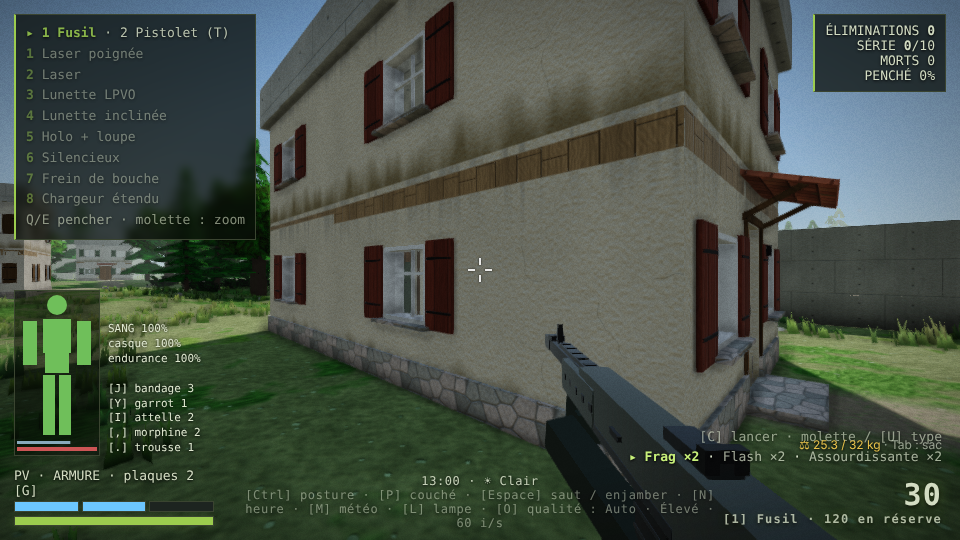
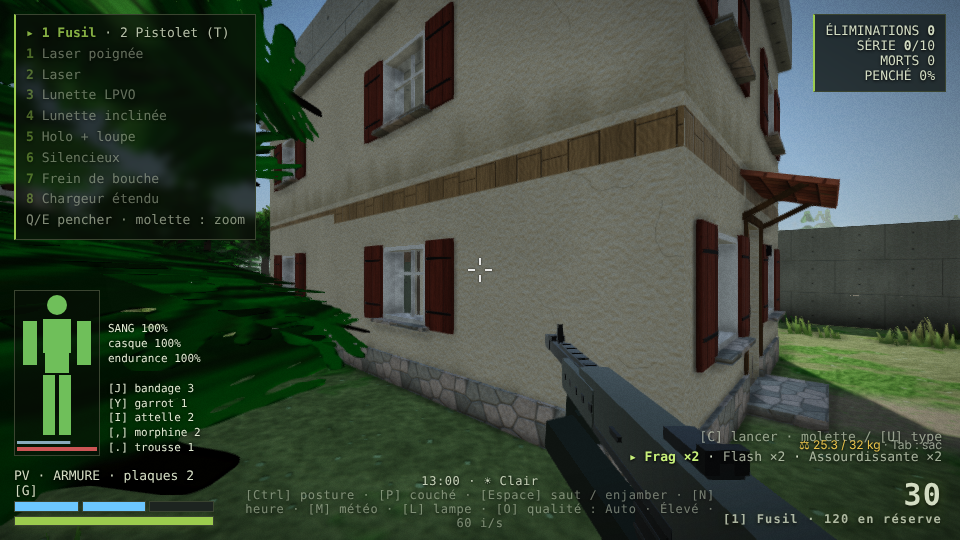
v12 : lumiere interieure manuelle (0), coulures du crepi attenuees
Claude-Session: https://claude.ai/code/session_015MoiAC5KEFPeR3G75qdcFk

diff --git a/MILSIM_FPS.html b/MILSIM_FPS.html
@@ -164,8 +164,8 @@ cracks(x,sz,3,'rgba(40,38,35,.45)')},3);
 // --- crépi (hauteur non répétée : saleté en bas, coulures sous le toit)
 const T_plas=ptex(512,(d,H,sz)=>{const a=fbm(sz,4,4,4,31),b=fbm(sz,96,96,2,13),e=fbm(sz,10,3,3,57),st=fbm(sz,40,2,3,71);
 for(let y=0;y<sz;y++)for(let X=0;X<sz;X++){const i=y*sz+X,vv=1-y/sz;let r=.93+(a[i]-.5)*.1+(b[i]-.5)*.05,g=r*.985,bl=r*.95;
-const dk=c01((.17+(e[i]-.5)*.2-vv)/.15);r*=1-.4*dk;g*=1-.45*dk;bl*=1-.55*dk;
-const tk=c01((vv-.7)/.2)*c01((st[i]-.45)*4);r*=1-.17*tk;g*=1-.16*tk;bl*=1-.13*tk;
+const dk=c01((.17+(e[i]-.5)*.2-vv)/.15);r*=1-.18*dk;g*=1-.2*dk;bl*=1-.24*dk;
+const tk=c01((vv-.7)/.2)*c01((st[i]-.45)*4);r*=1-.06*tk;g*=1-.06*tk;bl*=1-.05*tk;
 P4(d,i,r*255,g*255,bl*255);H[i]=b[i]*.7+a[i]*.3}},(x,sz)=>cracks(x,sz,5,'rgba(70,62,52,.4)'),2.2);
 // --- pierre (moellons)
 const T_stone=ptex(256,(d,H,sz)=>{const G=5,cs=sz/G,n=fbm(sz,48,48,2,91),pts=[];for(let j=0;j<G;j++)for(let i=0;i<G;i++)pts.push([(i+.15+hsh(i,j)*.7)*cs,(j+.15+hsh(i+9,j+5)*.7)*cs,hsh(i*3+1,j*7+2)]);
@@ -1195,11 +1195,11 @@ vA=(1.-aEnd*.7)*(.55);gl_Position=projectionMatrix*viewMatrix*vec4(p,1.);}`,
 fragmentShader:`uniform float uIn,uLum;varying float vA;void main(){gl_FragColor=vec4(vec3(.72,.8,.92)*uLum,vA*(1.-uIn)*.55);}`});
 const rain=new THREE.LineSegments(rg,rainM);rain.frustumCulled=false;rain.renderOrder=5;S.add(rain);
 // lampe torche + lumières intérieures
-const fl=new THREE.SpotLight(0xfff0d6,0,34,.4,.55,1.2);fl.position.set(.14,-.12,0);C.add(fl,fl.target);fl.target.position.set(0,0,-8);let flOn=false;
+const fl=new THREE.SpotLight(0xfff0d6,0,34,.4,.55,1.2);fl.position.set(.14,-.12,0);C.add(fl,fl.target);fl.target.position.set(0,0,-8);let flOn=false,ILON=false;
 const inL=new THREE.PointLight(0xffe2b0,0,8,1.6),inL2=new THREE.PointLight(0xffe2b0,0,8,1.6);S.add(inL,inL2);
 // HUD
 const wxEl=document.createElement('div');wxEl.style.cssText='position:fixed;bottom:10px;left:50%;transform:translateX(-50%);font:12px monospace;color:#dfe8d0;text-shadow:0 1px 3px #000;pointer-events:none;opacity:.85;letter-spacing:.05em;text-align:center;z-index:5';document.body.appendChild(wxEl);
-addEventListener('keydown',e=>{if(e.repeat)return;if(e.code==='KeyN'){TOD.t=(TOD.t+(e.shiftKey?-1:2)+24)%24}if(e.code==='KeyM'){TOD.tgt=(TOD.tgt+1)%5}if(e.code==='KeyL'){flOn=!flOn;snd(900,.04,.1,'square')}});
+addEventListener('keydown',e=>{if(e.repeat)return;if(e.code==='KeyN'){TOD.t=(TOD.t+(e.shiftKey?-1:2)+24)%24}if(e.code==='KeyM'){TOD.tgt=(TOD.tgt+1)%5}if(e.code==='KeyL'){flOn=!flOn;snd(900,.04,.1,'square')}if(e.code==='Digit0'&&inRoom(C.position.x,C.position.z)>=0){ILON=!ILON;snd(500,.05,.1,'square');typeof hlMsg==='function'&&hlMsg(ILON?'Lumière allumée':'Lumière éteinte')}});
 // bruit de pluie / tonnerre
 let rainG=null;function rainAudio(a){try{AC=AC||new AudioContext();if(!rainG){const n=AC.sampleRate*2,b=AC.createBuffer(1,n,AC.sampleRate),d=b.getChannelData(0);for(let i=0;i<n;i++)d[i]=Math.random()*2-1;const s=AC.createBufferSource(),f=AC.createBiquadFilter();s.buffer=b;s.loop=true;f.type='bandpass';f.frequency.value=3200;f.Q.value=.35;rainG=AC.createGain();rainG.gain.value=0;s.connect(f).connect(rainG).connect(AOUT());s.start()}rainG.gain.value+=(a-rainG.gain.value)*.05}catch(e){}}
 function thunder(){try{AC=AC||new AudioContext();const n=AC.sampleRate*3.2,b=AC.createBuffer(1,n,AC.sampleRate),d=b.getChannelData(0);let l=0;for(let i=0;i<n;i++){l=l*.97+(Math.random()*2-1)*.03;d[i]=l*Math.pow(1-i/n,2.2)*14}
@@ -1233,7 +1233,7 @@ rainMix(rn,ind,C.position.y);
 floor.material.roughness=1-.55*Math.min(1,rn*1.3);floor.material.color.setScalar(1-.28*Math.min(1,rn*1.2));
 // lumières intérieures
 const night=Math.max(0,Math.min(1,.5-e*4)),I=(.3+.95*night)*(ind?1:0);
-if(ri>=0){const r=ROOMS[ri],r2=ROOMS[ri^1];inL.position.set(r.x,2.3,r.z);inL2.position.set(r2.x,2.3,r2.z);inL.intensity+=(I*1.2-inL.intensity)*Math.min(1,dt*8);inL2.intensity+=(I*.8-inL2.intensity)*Math.min(1,dt*8)}else{inL.intensity*=Math.max(0,1-dt*8);inL2.intensity*=Math.max(0,1-dt*8)}
+if(ri<0)ILON=false;if(ri>=0&&ILON){const r=ROOMS[ri],r2=ROOMS[ri^1];inL.position.set(r.x,2.3,r.z);inL2.position.set(r2.x,2.3,r2.z);inL.intensity+=(I*1.2-inL.intensity)*Math.min(1,dt*8);inL2.intensity+=(I*.8-inL2.intensity)*Math.min(1,dt*8)}else{inL.intensity*=Math.max(0,1-dt*8);inL2.intensity*=Math.max(0,1-dt*8)}
 fl.intensity=flOn?3.2:0;
 // recalcul de l'environnement (reflets PBR) quand le ciel a assez changé
 const sig=TOD.t+cov*3+gr*3;if(Math.abs(sig-TOD.envW)>.28&&fz<.05&&performance.now()-TOD.envT>4000){TOD.envW=sig;TOD.envT=performance.now();const o=S.environment;S.environment=mkEnv(R);if(o&&o.dispose)o.dispose()}

diff --git a/index.html b/index.html
@@ -164,8 +164,8 @@ cracks(x,sz,3,'rgba(40,38,35,.45)')},3);
 // --- crépi (hauteur non répétée : saleté en bas, coulures sous le toit)
 const T_plas=ptex(512,(d,H,sz)=>{const a=fbm(sz,4,4,4,31),b=fbm(sz,96,96,2,13),e=fbm(sz,10,3,3,57),st=fbm(sz,40,2,3,71);
 for(let y=0;y<sz;y++)for(let X=0;X<sz;X++){const i=y*sz+X,vv=1-y/sz;let r=.93+(a[i]-.5)*.1+(b[i]-.5)*.05,g=r*.985,bl=r*.95;
-const dk=c01((.17+(e[i]-.5)*.2-vv)/.15);r*=1-.4*dk;g*=1-.45*dk;bl*=1-.55*dk;
-const tk=c01((vv-.7)/.2)*c01((st[i]-.45)*4);r*=1-.17*tk;g*=1-.16*tk;bl*=1-.13*tk;
+const dk=c01((.17+(e[i]-.5)*.2-vv)/.15);r*=1-.18*dk;g*=1-.2*dk;bl*=1-.24*dk;
+const tk=c01((vv-.7)/.2)*c01((st[i]-.45)*4);r*=1-.06*tk;g*=1-.06*tk;bl*=1-.05*tk;
 P4(d,i,r*255,g*255,bl*255);H[i]=b[i]*.7+a[i]*.3}},(x,sz)=>cracks(x,sz,5,'rgba(70,62,52,.4)'),2.2);
 // --- pierre (moellons)
 const T_stone=ptex(256,(d,H,sz)=>{const G=5,cs=sz/G,n=fbm(sz,48,48,2,91),pts=[];for(let j=0;j<G;j++)for(let i=0;i<G;i++)pts.push([(i+.15+hsh(i,j)*.7)*cs,(j+.15+hsh(i+9,j+5)*.7)*cs,hsh(i*3+1,j*7+2)]);
@@ -1195,11 +1195,11 @@ vA=(1.-aEnd*.7)*(.55);gl_Position=projectionMatrix*viewMatrix*vec4(p,1.);}`,
 fragmentShader:`uniform float uIn,uLum;varying float vA;void main(){gl_FragColor=vec4(vec3(.72,.8,.92)*uLum,vA*(1.-uIn)*.55);}`});
 const rain=new THREE.LineSegments(rg,rainM);rain.frustumCulled=false;rain.renderOrder=5;S.add(rain);
 // lampe torche + lumières intérieures
-const fl=new THREE.SpotLight(0xfff0d6,0,34,.4,.55,1.2);fl.position.set(.14,-.12,0);C.add(fl,fl.target);fl.target.position.set(0,0,-8);let flOn=false;
+const fl=new THREE.SpotLight(0xfff0d6,0,34,.4,.55,1.2);fl.position.set(.14,-.12,0);C.add(fl,fl.target);fl.target.position.set(0,0,-8);let flOn=false,ILON=false;
 const inL=new THREE.PointLight(0xffe2b0,0,8,1.6),inL2=new THREE.PointLight(0xffe2b0,0,8,1.6);S.add(inL,inL2);
 // HUD
 const wxEl=document.createElement('div');wxEl.style.cssText='position:fixed;bottom:10px;left:50%;transform:translateX(-50%);font:12px monospace;color:#dfe8d0;text-shadow:0 1px 3px #000;pointer-events:none;opacity:.85;letter-spacing:.05em;text-align:center;z-index:5';document.body.appendChild(wxEl);
-addEventListener('keydown',e=>{if(e.repeat)return;if(e.code==='KeyN'){TOD.t=(TOD.t+(e.shiftKey?-1:2)+24)%24}if(e.code==='KeyM'){TOD.tgt=(TOD.tgt+1)%5}if(e.code==='KeyL'){flOn=!flOn;snd(900,.04,.1,'square')}});
+addEventListener('keydown',e=>{if(e.repeat)return;if(e.code==='KeyN'){TOD.t=(TOD.t+(e.shiftKey?-1:2)+24)%24}if(e.code==='KeyM'){TOD.tgt=(TOD.tgt+1)%5}if(e.code==='KeyL'){flOn=!flOn;snd(900,.04,.1,'square')}if(e.code==='Digit0'&&inRoom(C.position.x,C.position.z)>=0){ILON=!ILON;snd(500,.05,.1,'square');typeof hlMsg==='function'&&hlMsg(ILON?'Lumière allumée':'Lumière éteinte')}});
 // bruit de pluie / tonnerre
 let rainG=null;function rainAudio(a){try{AC=AC||new AudioContext();if(!rainG){const n=AC.sampleRate*2,b=AC.createBuffer(1,n,AC.sampleRate),d=b.getChannelData(0);for(let i=0;i<n;i++)d[i]=Math.random()*2-1;const s=AC.createBufferSource(),f=AC.createBiquadFilter();s.buffer=b;s.loop=true;f.type='bandpass';f.frequency.value=3200;f.Q.value=.35;rainG=AC.createGain();rainG.gain.value=0;s.connect(f).connect(rainG).connect(AOUT());s.start()}rainG.gain.value+=(a-rainG.gain.value)*.05}catch(e){}}
 function thunder(){try{AC=AC||new AudioContext();const n=AC.sampleRate*3.2,b=AC.createBuffer(1,n,AC.sampleRate),d=b.getChannelData(0);let l=0;for(let i=0;i<n;i++){l=l*.97+(Math.random()*2-1)*.03;d[i]=l*Math.pow(1-i/n,2.2)*14}
@@ -1233,7 +1233,7 @@ rainMix(rn,ind,C.position.y);
 floor.material.roughness=1-.55*Math.min(1,rn*1.3);floor.material.color.setScalar(1-.28*Math.min(1,rn*1.2));
 // lumières intérieures
 const night=Math.max(0,Math.min(1,.5-e*4)),I=(.3+.95*night)*(ind?1:0);
-if(ri>=0){const r=ROOMS[ri],r2=ROOMS[ri^1];inL.position.set(r.x,2.3,r.z);inL2.position.set(r2.x,2.3,r2.z);inL.intensity+=(I*1.2-inL.intensity)*Math.min(1,dt*8);inL2.intensity+=(I*.8-inL2.intensity)*Math.min(1,dt*8)}else{inL.intensity*=Math.max(0,1-dt*8);inL2.intensity*=Math.max(0,1-dt*8)}
+if(ri<0)ILON=false;if(ri>=0&&ILON){const r=ROOMS[ri],r2=ROOMS[ri^1];inL.position.set(r.x,2.3,r.z);inL2.position.set(r2.x,2.3,r2.z);inL.intensity+=(I*1.2-inL.intensity)*Math.min(1,dt*8);inL2.intensity+=(I*.8-inL2.intensity)*Math.min(1,dt*8)}else{inL.intensity*=Math.max(0,1-dt*8);inL2.intensity*=Math.max(0,1-dt*8)}
 fl.intensity=flOn?3.2:0;
 // recalcul de l'environnement (reflets PBR) quand le ciel a assez changé
 const sig=TOD.t+cov*3+gr*3;if(Math.abs(sig-TOD.envW)>.28&&fz<.05&&performance.now()-TOD.envT>4000){TOD.envW=sig;TOD.envT=performance.now();const o=S.environment;S.environment=mkEnv(R);if(o&&o.dispose)o.dispose()}

diff --git a/versions/MILSIM_FPS_v12.html b/versions/MILSIM_FPS_v12.html
@@ -164,8 +164,8 @@ cracks(x,sz,3,'rgba(40,38,35,.45)')},3);
 // --- crépi (hauteur non répétée : saleté en bas, coulures sous le toit)
 const T_plas=ptex(512,(d,H,sz)=>{const a=fbm(sz,4,4,4,31),b=fbm(sz,96,96,2,13),e=fbm(sz,10,3,3,57),st=fbm(sz,40,2,3,71);
 for(let y=0;y<sz;y++)for(let X=0;X<sz;X++){const i=y*sz+X,vv=1-y/sz;let r=.93+(a[i]-.5)*.1+(b[i]-.5)*.05,g=r*.985,bl=r*.95;
-const dk=c01((.17+(e[i]-.5)*.2-vv)/.15);r*=1-.4*dk;g*=1-.45*dk;bl*=1-.55*dk;
-const tk=c01((vv-.7)/.2)*c01((st[i]-.45)*4);r*=1-.17*tk;g*=1-.16*tk;bl*=1-.13*tk;
+const dk=c01((.17+(e[i]-.5)*.2-vv)/.15);r*=1-.18*dk;g*=1-.2*dk;bl*=1-.24*dk;
+const tk=c01((vv-.7)/.2)*c01((st[i]-.45)*4);r*=1-.06*tk;g*=1-.06*tk;bl*=1-.05*tk;
 P4(d,i,r*255,g*255,bl*255);H[i]=b[i]*.7+a[i]*.3}},(x,sz)=>cracks(x,sz,5,'rgba(70,62,52,.4)'),2.2);
 // --- pierre (moellons)
 const T_stone=ptex(256,(d,H,sz)=>{const G=5,cs=sz/G,n=fbm(sz,48,48,2,91),pts=[];for(let j=0;j<G;j++)for(let i=0;i<G;i++)pts.push([(i+.15+hsh(i,j)*.7)*cs,(j+.15+hsh(i+9,j+5)*.7)*cs,hsh(i*3+1,j*7+2)]);
@@ -1195,11 +1195,11 @@ vA=(1.-aEnd*.7)*(.55);gl_Position=projectionMatrix*viewMatrix*vec4(p,1.);}`,
 fragmentShader:`uniform float uIn,uLum;varying float vA;void main(){gl_FragColor=vec4(vec3(.72,.8,.92)*uLum,vA*(1.-uIn)*.55);}`});
 const rain=new THREE.LineSegments(rg,rainM);rain.frustumCulled=false;rain.renderOrder=5;S.add(rain);
 // lampe torche + lumières intérieures
-const fl=new THREE.SpotLight(0xfff0d6,0,34,.4,.55,1.2);fl.position.set(.14,-.12,0);C.add(fl,fl.target);fl.target.position.set(0,0,-8);let flOn=false;
+const fl=new THREE.SpotLight(0xfff0d6,0,34,.4,.55,1.2);fl.position.set(.14,-.12,0);C.add(fl,fl.target);fl.target.position.set(0,0,-8);let flOn=false,ILON=false;
 const inL=new THREE.PointLight(0xffe2b0,0,8,1.6),inL2=new THREE.PointLight(0xffe2b0,0,8,1.6);S.add(inL,inL2);
 // HUD
 const wxEl=document.createElement('div');wxEl.style.cssText='position:fixed;bottom:10px;left:50%;transform:translateX(-50%);font:12px monospace;color:#dfe8d0;text-shadow:0 1px 3px #000;pointer-events:none;opacity:.85;letter-spacing:.05em;text-align:center;z-index:5';document.body.appendChild(wxEl);
-addEventListener('keydown',e=>{if(e.repeat)return;if(e.code==='KeyN'){TOD.t=(TOD.t+(e.shiftKey?-1:2)+24)%24}if(e.code==='KeyM'){TOD.tgt=(TOD.tgt+1)%5}if(e.code==='KeyL'){flOn=!flOn;snd(900,.04,.1,'square')}});
+addEventListener('keydown',e=>{if(e.repeat)return;if(e.code==='KeyN'){TOD.t=(TOD.t+(e.shiftKey?-1:2)+24)%24}if(e.code==='KeyM'){TOD.tgt=(TOD.tgt+1)%5}if(e.code==='KeyL'){flOn=!flOn;snd(900,.04,.1,'square')}if(e.code==='Digit0'&&inRoom(C.position.x,C.position.z)>=0){ILON=!ILON;snd(500,.05,.1,'square');typeof hlMsg==='function'&&hlMsg(ILON?'Lumière allumée':'Lumière éteinte')}});
 // bruit de pluie / tonnerre
 let rainG=null;function rainAudio(a){try{AC=AC||new AudioContext();if(!rainG){const n=AC.sampleRate*2,b=AC.createBuffer(1,n,AC.sampleRate),d=b.getChannelData(0);for(let i=0;i<n;i++)d[i]=Math.random()*2-1;const s=AC.createBufferSource(),f=AC.createBiquadFilter();s.buffer=b;s.loop=true;f.type='bandpass';f.frequency.value=3200;f.Q.value=.35;rainG=AC.createGain();rainG.gain.value=0;s.connect(f).connect(rainG).connect(AOUT());s.start()}rainG.gain.value+=(a-rainG.gain.value)*.05}catch(e){}}
 function thunder(){try{AC=AC||new AudioContext();const n=AC.sampleRate*3.2,b=AC.createBuffer(1,n,AC.sampleRate),d=b.getChannelData(0);let l=0;for(let i=0;i<n;i++){l=l*.97+(Math.random()*2-1)*.03;d[i]=l*Math.pow(1-i/n,2.2)*14}
@@ -1233,7 +1233,7 @@ rainMix(rn,ind,C.position.y);
 floor.material.roughness=1-.55*Math.min(1,rn*1.3);floor.material.color.setScalar(1-.28*Math.min(1,rn*1.2));
 // lumières intérieures
 const night=Math.max(0,Math.min(1,.5-e*4)),I=(.3+.95*night)*(ind?1:0);
-if(ri>=0){const r=ROOMS[ri],r2=ROOMS[ri^1];inL.position.set(r.x,2.3,r.z);inL2.position.set(r2.x,2.3,r2.z);inL.intensity+=(I*1.2-inL.intensity)*Math.min(1,dt*8);inL2.intensity+=(I*.8-inL2.intensity)*Math.min(1,dt*8)}else{inL.intensity*=Math.max(0,1-dt*8);inL2.intensity*=Math.max(0,1-dt*8)}
+if(ri<0)ILON=false;if(ri>=0&&ILON){const r=ROOMS[ri],r2=ROOMS[ri^1];inL.position.set(r.x,2.3,r.z);inL2.position.set(r2.x,2.3,r2.z);inL.intensity+=(I*1.2-inL.intensity)*Math.min(1,dt*8);inL2.intensity+=(I*.8-inL2.intensity)*Math.min(1,dt*8)}else{inL.intensity*=Math.max(0,1-dt*8);inL2.intensity*=Math.max(0,1-dt*8)}
 fl.intensity=flOn?3.2:0;
 // recalcul de l'environnement (reflets PBR) quand le ciel a assez changé
 const sig=TOD.t+cov*3+gr*3;if(Math.abs(sig-TOD.envW)>.28&&fz<.05&&performance.now()-TOD.envT>4000){TOD.envW=sig;TOD.envT=performance.now();const o=S.environment;S.environment=mkEnv(R);if(o&&o.dispose)o.dispose()}

diff --git a/src/parts/weather.js b/src/parts/weather.js
@@ -25,11 +25,11 @@ vA=(1.-aEnd*.7)*(.55);gl_Position=projectionMatrix*viewMatrix*vec4(p,1.);}`,
 fragmentShader:`uniform float uIn,uLum;varying float vA;void main(){gl_FragColor=vec4(vec3(.72,.8,.92)*uLum,vA*(1.-uIn)*.55);}`});
 const rain=new THREE.LineSegments(rg,rainM);rain.frustumCulled=false;rain.renderOrder=5;S.add(rain);
 // lampe torche + lumières intérieures
-const fl=new THREE.SpotLight(0xfff0d6,0,34,.4,.55,1.2);fl.position.set(.14,-.12,0);C.add(fl,fl.target);fl.target.position.set(0,0,-8);let flOn=false;
+const fl=new THREE.SpotLight(0xfff0d6,0,34,.4,.55,1.2);fl.position.set(.14,-.12,0);C.add(fl,fl.target);fl.target.position.set(0,0,-8);let flOn=false,ILON=false;
 const inL=new THREE.PointLight(0xffe2b0,0,8,1.6),inL2=new THREE.PointLight(0xffe2b0,0,8,1.6);S.add(inL,inL2);
 // HUD
 const wxEl=document.createElement('div');wxEl.style.cssText='position:fixed;bottom:10px;left:50%;transform:translateX(-50%);font:12px monospace;color:#dfe8d0;text-shadow:0 1px 3px #000;pointer-events:none;opacity:.85;letter-spacing:.05em;text-align:center;z-index:5';document.body.appendChild(wxEl);
-addEventListener('keydown',e=>{if(e.repeat)return;if(e.code==='KeyN'){TOD.t=(TOD.t+(e.shiftKey?-1:2)+24)%24}if(e.code==='KeyM'){TOD.tgt=(TOD.tgt+1)%5}if(e.code==='KeyL'){flOn=!flOn;snd(900,.04,.1,'square')}});
+addEventListener('keydown',e=>{if(e.repeat)return;if(e.code==='KeyN'){TOD.t=(TOD.t+(e.shiftKey?-1:2)+24)%24}if(e.code==='KeyM'){TOD.tgt=(TOD.tgt+1)%5}if(e.code==='KeyL'){flOn=!flOn;snd(900,.04,.1,'square')}if(e.code==='Digit0'&&inRoom(C.position.x,C.position.z)>=0){ILON=!ILON;snd(500,.05,.1,'square');typeof hlMsg==='function'&&hlMsg(ILON?'Lumière allumée':'Lumière éteinte')}});
 // bruit de pluie / tonnerre
 let rainG=null;function rainAudio(a){try{AC=AC||new AudioContext();if(!rainG){const n=AC.sampleRate*2,b=AC.createBuffer(1,n,AC.sampleRate),d=b.getChannelData(0);for(let i=0;i<n;i++)d[i]=Math.random()*2-1;const s=AC.createBufferSource(),f=AC.createBiquadFilter();s.buffer=b;s.loop=true;f.type='bandpass';f.frequency.value=3200;f.Q.value=.35;rainG=AC.createGain();rainG.gain.value=0;s.connect(f).connect(rainG).connect(AC.destination);s.start()}rainG.gain.value+=(a-rainG.gain.value)*.05}catch(e){}}
 function thunder(){try{AC=AC||new AudioContext();const n=AC.sampleRate*3.2,b=AC.createBuffer(1,n,AC.sampleRate),d=b.getChannelData(0);let l=0;for(let i=0;i<n;i++){l=l*.97+(Math.random()*2-1)*.03;d[i]=l*Math.pow(1-i/n,2.2)*14}
@@ -63,7 +63,7 @@ rainMix(rn,ind,C.position.y);
 floor.material.roughness=1-.55*Math.min(1,rn*1.3);floor.material.color.setScalar(1-.28*Math.min(1,rn*1.2));
 // lumières intérieures
 const night=Math.max(0,Math.min(1,.5-e*4)),I=(.3+.95*night)*(ind?1:0);
-if(ri>=0){const r=ROOMS[ri],r2=ROOMS[ri^1];inL.position.set(r.x,2.3,r.z);inL2.position.set(r2.x,2.3,r2.z);inL.intensity+=(I*1.2-inL.intensity)*Math.min(1,dt*8);inL2.intensity+=(I*.8-inL2.intensity)*Math.min(1,dt*8)}else{inL.intensity*=Math.max(0,1-dt*8);inL2.intensity*=Math.max(0,1-dt*8)}
+if(ri<0)ILON=false;if(ri>=0&&ILON){const r=ROOMS[ri],r2=ROOMS[ri^1];inL.position.set(r.x,2.3,r.z);inL2.position.set(r2.x,2.3,r2.z);inL.intensity+=(I*1.2-inL.intensity)*Math.min(1,dt*8);inL2.intensity+=(I*.8-inL2.intensity)*Math.min(1,dt*8)}else{inL.intensity*=Math.max(0,1-dt*8);inL2.intensity*=Math.max(0,1-dt*8)}
 fl.intensity=flOn?3.2:0;
 // recalcul de l'environnement (reflets PBR) quand le ciel a assez changé
 const sig=TOD.t+cov*3+gr*3;if(Math.abs(sig-TOD.envW)>.28&&fz<.05&&performance.now()-TOD.envT>4000){TOD.envW=sig;TOD.envT=performance.now();const o=S.environment;S.environment=mkEnv(R);if(o&&o.dispose)o.dispose()}

diff --git a/src/parts/tex.js b/src/parts/tex.js
@@ -35,8 +35,8 @@ cracks(x,sz,3,'rgba(40,38,35,.45)')},3);
 // --- crépi (hauteur non répétée : saleté en bas, coulures sous le toit)
 const T_plas=ptex(512,(d,H,sz)=>{const a=fbm(sz,4,4,4,31),b=fbm(sz,96,96,2,13),e=fbm(sz,10,3,3,57),st=fbm(sz,40,2,3,71);
 for(let y=0;y<sz;y++)for(let X=0;X<sz;X++){const i=y*sz+X,vv=1-y/sz;let r=.93+(a[i]-.5)*.1+(b[i]-.5)*.05,g=r*.985,bl=r*.95;
-const dk=c01((.17+(e[i]-.5)*.2-vv)/.15);r*=1-.4*dk;g*=1-.45*dk;bl*=1-.55*dk;
-const tk=c01((vv-.7)/.2)*c01((st[i]-.45)*4);r*=1-.17*tk;g*=1-.16*tk;bl*=1-.13*tk;
+const dk=c01((.17+(e[i]-.5)*.2-vv)/.15);r*=1-.18*dk;g*=1-.2*dk;bl*=1-.24*dk;
+const tk=c01((vv-.7)/.2)*c01((st[i]-.45)*4);r*=1-.06*tk;g*=1-.06*tk;bl*=1-.05*tk;
 P4(d,i,r*255,g*255,bl*255);H[i]=b[i]*.7+a[i]*.3}},(x,sz)=>cracks(x,sz,5,'rgba(70,62,52,.4)'),2.2);
 // --- pierre (moellons)
 const T_stone=ptex(256,(d,H,sz)=>{const G=5,cs=sz/G,n=fbm(sz,48,48,2,91),pts=[];for(let j=0;j<G;j++)for(let i=0;i<G;i++)pts.push([(i+.15+hsh(i,j)*.7)*cs,(j+.15+hsh(i+9,j+5)*.7)*cs,hsh(i*3+1,j*7+2)]);

diff --git a/docs/AMELIORATIONS.md b/docs/AMELIORATIONS.md
@@ -271,3 +271,5 @@ Limites : pas testé sur GPU réelle (performances sur la grande carte, 30 000 b
 - Herbe exclue de l'emprise des ponts.
 - Tirer annule la pose et la vitesse de sprint.
 - Restent à traiter : caisse dans un trou, mare coupée, arbres-cônes lointains, rive bruitée au pont, socle en pierre, crépi.
+- Crépi : coulures et saleté atténuées (la bande de la façade n'est plus soulignée par des traînées sombres).
+- Lumière intérieure : ne s'allume plus automatiquement ; touche 0 dans une pièce pour l'allumer/éteindre.
